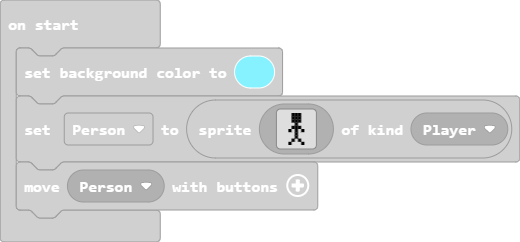
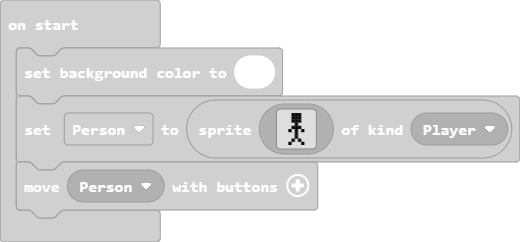
Update pxt.json, main.blocks, main.ts

Changed region(s): [[0.4308, 0.2314, 0.5538, 0.376]]

diff --git a/main.ts b/main.ts
@@ -1,5 +1,5 @@
 let Bad_Guy: Sprite = null
-scene.setBackgroundColor(9)
+scene.setBackgroundColor(1)
 let Person = sprites.create(img`
     . f f f . 
     . f f f . 
